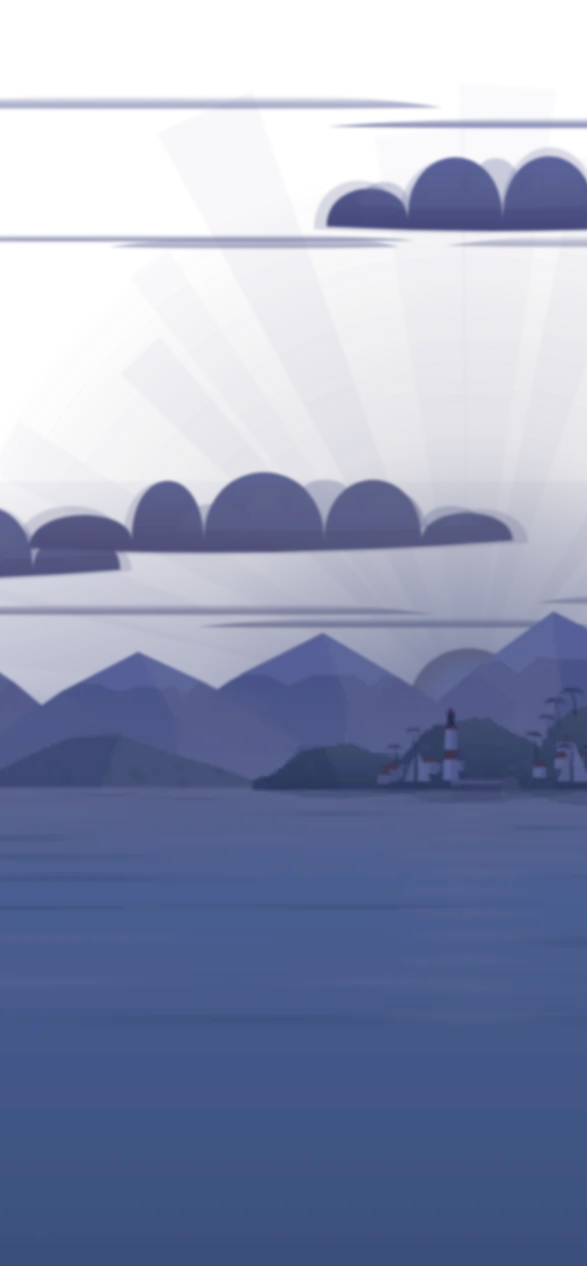
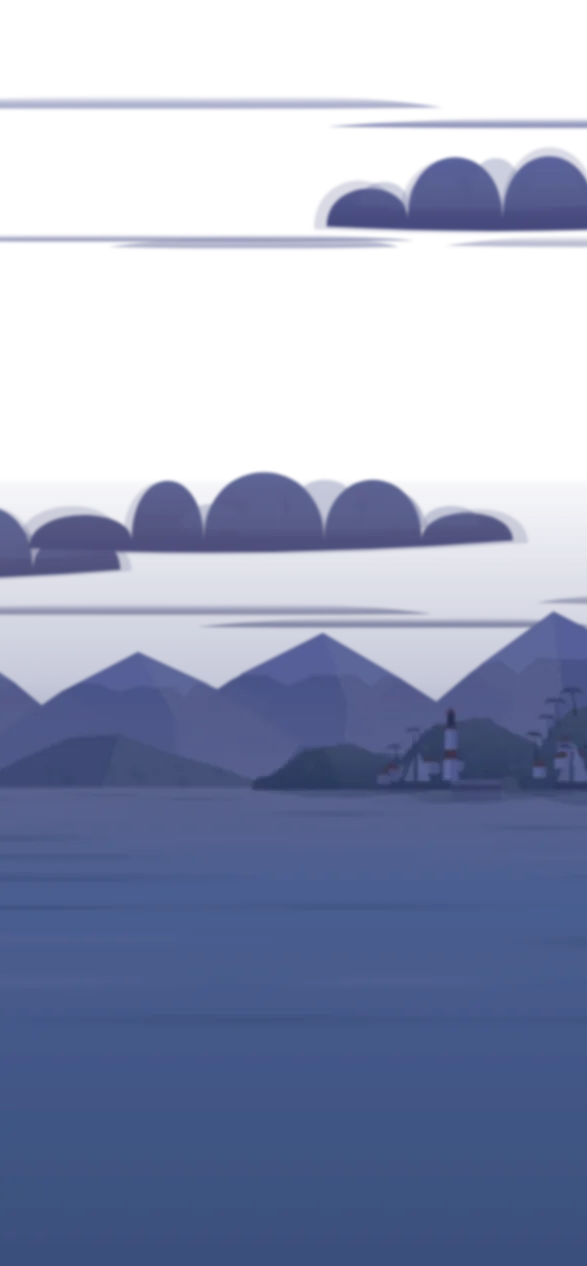
No sunset glow on the night beach
Claude-Session: https://claude.ai/code/session_01EHtmNVvLo6L45VFzzqfGpi

Changed region(s): [[0.276, 0.2773, 1.0, 0.5545]]

diff --git a/assets/js/nature.js b/assets/js/nature.js
@@ -1755,7 +1755,7 @@ function railing(x0, x1, y, c = '#1b1a24') {
   return s;
 }
 
-export function sceneCove(W, stops) {
+export function sceneCove(W, stops, { night = false } = {}) {
   reseed(31 + stops);
   const P = PAL.dusk, fw = planeW(W, stops, FACTORS.far), mw = planeW(W, stops, FACTORS.mid), vw = planeW(W, stops, FACTORS.move), hz = 62;
   let far = '', mid = '', move = '';
@@ -1765,7 +1765,8 @@ export function sceneCove(W, stops) {
   far += streakCloud(-10, fw + 10, 9, 1.1, '#d9c3dc', '#f3d6d8') + streakCloud(-10, fw + 10, 20, 1, '#e0bfcf', '#fbd9c6');
   for (let x = R(-12, 4); x < fw + 20; x += R(16, 30)) { const y = R(12, 46), k = (y - 12) / 34, big = R(.8, 1.5); far += sunsetCloud(x, y, R(20, 34) * big, R(3, 5) * big, sx, [mixC('#f6e0e2', '#ffe9cc', k), mixC('#dcbccb', '#f2c2ae', k), mixC('#b39bb9', '#cf9ea2', k), '#fff0cf']); }
   far += streakCloud(-10, fw + 10, hz - 13, 1.4, '#e7b6ae', '#ffcf8f');
-  far += setSun(sx, hz - 6, 4.8);
+  // 夜（入口のランプで夜にしたとき）は夕日を描かない（乱数の呼び出しだけ合わせる）
+  { const sun = setSun(sx, hz - 6, 4.8); if (!night) far += sun; }
   // 遠くを渡る鳥
   // 遠景は 3 段：奥の雪山、真ん中のかすむ島々、手前の緑の岬（作品の山の描き方で、光の面と影の面を塗り分ける）。
   // 前の山の乱数の呼び出しはそのまま残す（浜の小物の位置を変えないため）。絵は位置から決まる別の乱数で
@@ -1780,7 +1781,7 @@ export function sceneCove(W, stops) {
   far += `<defs>${sd}</defs><rect x="-5" y="${hz}" width="${n1(fw + 10)}" height="${n1(106 - hz)}" fill="url(#${sg})"/>`;
   // 海の面と夕日の光の道（前の粒と白い筋は、乱数の呼び出しだけ残して描かない）
   glitter(sx, hz + .5, 100, '#fff6d8', { spread: .35, n: 170, a: 1 });
-  { const gS = hrng(fw + 7.7); far += seaSheen(-5, fw + 5, hz, 84, gS) + sunColumn(sx, hz, 80); }
+  { const gS = hrng(fw + 7.7); far += seaSheen(-5, fw + 5, hz, 84, gS) + (night ? '' : sunColumn(sx, hz, 80)); }
   // 水平線の帆船と、遠くの桟橋（先に灯りがともる）
   // 手前の緑の岬：作品と作品のあいだ（立ち止まると画面の真ん中）に岬の先が来るように。どれも先を夕日の側（左）へ向け、
   // 次の岬に重ならない長さに。最初の岬の先に防波堤と小さな灯台

diff --git a/assets/css/museum.css b/assets/css/museum.css
@@ -687,7 +687,8 @@ body.beat-on [data-egg="turntable"] .spin { animation-duration: 1.2s; }
 /* 夕凪：歩くほど夕日が沈み、海面のきらめきが揺れる */
 .scene-cove .lightplay i { mix-blend-mode: screen; }
 .scene-cove .l1 { background: radial-gradient(55% 34% at 50% 58%, rgba(255, 176, 96, .46), rgba(255, 150, 90, .12) 55%, transparent 75%); transform: translateY(calc(var(--p, 0) * 16vh)); opacity: calc(1 - var(--p, 0) * .55); }
-.scene-cove .l2 { top: 62.4%; bottom: 12%; background: repeating-linear-gradient(transparent 0 1.2vh, rgba(255, 226, 170, .3) 1.2vh 1.45vh); -webkit-mask-image: radial-gradient(22% 100% at 50% 0%, #000, transparent); mask-image: radial-gradient(22% 100% at 50% 0%, #000, transparent); animation: glints 3.4s ease-in-out infinite alternate; } /* 夕日が水面に映る横向きのきらめき（水平線から下だけ。縦の筋に見えないように横線で） */
+.scene-cove .l2 { display: none; } /* 水面の横線のきらめきは、背景の光の道（.sunpath）に置きかえた */
+.room.moonlit.scene-cove .l1 { display: none; } /* 夜は夕日のにじみを出さない */
 @keyframes glints { from { transform: translateY(.25vh); opacity: .4; } to { transform: translateY(0); opacity: 1; } }
 /* 夜の庭：斜めに落ちる月明かりと、ネオンの霞がゆっくり息をする */
 .scene-night .lightplay i { mix-blend-mode: screen; }
@@ -1092,4 +1093,4 @@ body.forest-night .farewell .fw-glow { opacity: 1; }
 .wclock .hh { width: 7%; height: 23%; margin-left: -3.5%; }
 .wclock .mh { width: 4.5%; height: 36%; margin-left: -2.25%; }
 .wclock .cap { width: 12%; height: 12%; margin: 0 0 -6% -6%; border-radius: 50%; background: #b8925e; transform: none; }
-.room.moonlit .sunpath i { background: radial-gradient(closest-side, rgba(214, 222, 246, .7), rgba(180, 194, 236, .28) 55%, rgba(170, 185, 230, 0)); }
+.room.moonlit .sunpath { display: none; } /* 夜は夕日がないので、光の道も出さない */

diff --git a/assets/js/museum.js b/assets/js/museum.js
@@ -448,7 +448,7 @@ function setForestNight(on) {
 }
 function buildRoomScene(r) {
   const svgFrom = svgSeq;
-  const S = SCENES[r.room.scene](W, r.stops, { birdGap: BIRD_SPOTS[r.room.id] ? Math.floor(BIRD_SPOTS[r.room.id][0]) : -1 });
+  const S = SCENES[r.room.scene](W, r.stops, { birdGap: BIRD_SPOTS[r.room.id] ? Math.floor(BIRD_SPOTS[r.room.id][0]) : -1, night: forestNight && NIGHTABLE.includes(r.room.scene) });
   r.sceneData = S;
   const moonlit = forestNight && NIGHTABLE.includes(r.room.scene);
   r.el.classList.toggle('moonlit', moonlit);
